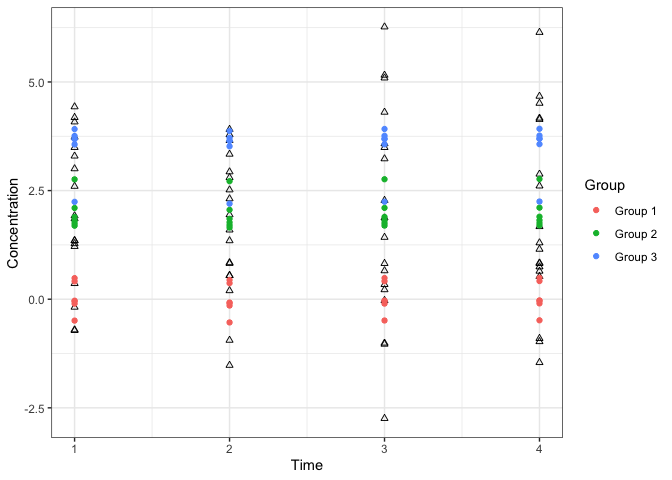
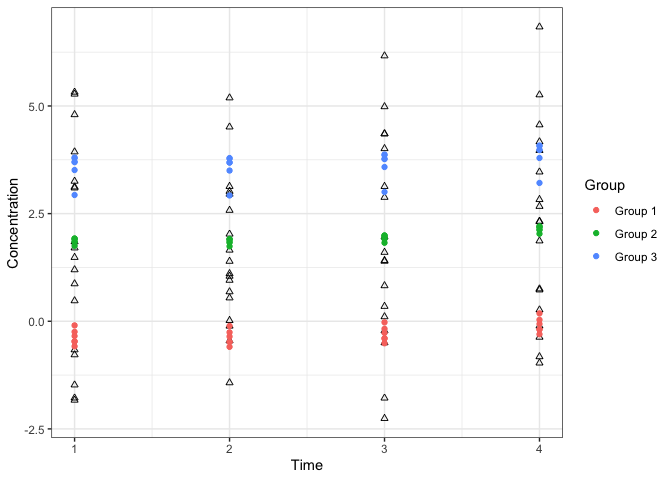
update readme

diff --git a/README.md b/README.md
@@ -85,37 +85,37 @@ print(exposure_mod_fit,
     ## post-warmup draws per chain=1000, total post-warmup draws=4000.
     ## 
     ##                  mean se_mean   sd    2.5%     25%     50%     75%   97.5%
-    ## sigmaG           1.84    0.01 0.46    1.12    1.50    1.77    2.12    2.91
-    ## sigmaI           0.63    0.01 0.24    0.12    0.49    0.64    0.79    1.09
-    ## sigmaW           1.20    0.00 0.13    0.99    1.11    1.19    1.28    1.48
-    ## sigmaTheta[1]    0.35    0.01 0.33    0.01    0.12    0.25    0.48    1.24
-    ## etaG[1]          0.03    0.01 0.37   -0.70   -0.21    0.03    0.27    0.79
-    ## etaG[2]          1.95    0.01 0.38    1.17    1.71    1.96    2.21    2.67
-    ## etaG[3]          3.38    0.01 0.38    2.60    3.14    3.39    3.64    4.10
-    ## theta[1]         0.04    0.00 0.29   -0.55   -0.09    0.01    0.15    0.70
-    ## theta[2]        -0.05    0.00 0.32   -0.80   -0.17   -0.01    0.09    0.63
-    ## theta[3]         0.05    0.00 0.23   -0.39   -0.07    0.02    0.15    0.57
-    ## sigma2I          0.46    0.01 0.31    0.01    0.24    0.40    0.62    1.19
-    ## sigma2W          1.46    0.01 0.31    0.98    1.24    1.42    1.65    2.18
-    ## sigma2G          3.60    0.04 1.89    1.25    2.25    3.13    4.49    8.48
-    ## lp__          -158.37    0.18 5.37 -170.17 -161.62 -157.95 -154.48 -149.23
+    ## sigmaG           1.83    0.01 0.45    1.13    1.50    1.78    2.10    2.85
+    ## sigmaI           0.39    0.01 0.23    0.03    0.22    0.38    0.55    0.86
+    ## sigmaW           1.34    0.00 0.12    1.12    1.25    1.33    1.42    1.60
+    ## sigmaTheta[1]    0.49    0.01 0.38    0.02    0.20    0.41    0.68    1.43
+    ## etaG[1]         -0.36    0.01 0.36   -1.08   -0.60   -0.36   -0.12    0.33
+    ## etaG[2]          1.85    0.01 0.36    1.10    1.61    1.86    2.09    2.53
+    ## etaG[3]          3.53    0.01 0.38    2.74    3.29    3.54    3.77    4.25
+    ## theta[1]         0.05    0.00 0.36   -0.65   -0.13    0.02    0.22    0.86
+    ## theta[2]         0.18    0.01 0.44   -0.60   -0.07    0.09    0.39    1.29
+    ## theta[3]         0.30    0.01 0.34   -0.21    0.04    0.23    0.50    1.09
+    ## sigma2I          0.21    0.01 0.21    0.00    0.05    0.15    0.30    0.75
+    ## sigma2W          1.81    0.01 0.34    1.25    1.57    1.78    2.01    2.55
+    ## sigma2G          3.56    0.04 1.82    1.27    2.25    3.15    4.40    8.10
+    ## lp__          -165.95    0.15 4.91 -176.34 -169.10 -165.61 -162.54 -156.84
     ##               n_eff Rhat
-    ## sigmaG         2275    1
-    ## sigmaI         1290    1
-    ## sigmaW         1948    1
-    ## sigmaTheta[1]  3424    1
-    ## etaG[1]        2536    1
-    ## etaG[2]        3689    1
-    ## etaG[3]        3654    1
-    ## theta[1]       4836    1
-    ## theta[2]       5016    1
-    ## theta[3]       4996    1
-    ## sigma2I        1730    1
-    ## sigma2W        1910    1
-    ## sigma2G        2367    1
-    ## lp__            858    1
+    ## sigmaG         2291 1.00
+    ## sigmaI         1444 1.00
+    ## sigmaW         3618 1.00
+    ## sigmaTheta[1]  2718 1.00
+    ## etaG[1]        3520 1.00
+    ## etaG[2]        3739 1.00
+    ## etaG[3]        3504 1.00
+    ## theta[1]       5409 1.00
+    ## theta[2]       3400 1.00
+    ## theta[3]       3392 1.00
+    ## sigma2I        1574 1.00
+    ## sigma2W        3629 1.00
+    ## sigma2G        2411 1.00
+    ## lp__           1102 1.01
     ## 
-    ## Samples were drawn using NUTS(diag_e) at Thu Jun 18 16:14:11 2020.
+    ## Samples were drawn using NUTS(diag_e) at Wed Aug 19 09:20:03 2020.
     ## For each parameter, n_eff is a crude measure of effective sample size,
     ## and Rhat is the potential scale reduction factor on split chains (at 
     ## convergence, Rhat=1).
@@ -131,7 +131,7 @@ summary(fitted_means)
 ```
 
     ##    Min. 1st Qu.  Median    Mean 3rd Qu.    Max. 
-    ## -0.5347  0.4131  1.8332  1.8291  3.5621  3.9226
+    ## -0.5940 -0.1244  1.9146  1.7749  3.5297  4.0821
 
 ``` r
 # Plots the fitted values (colored points) on top of original data (black outlines).
@@ -228,10 +228,10 @@ print(outcome_combo_mod_fit, pars=c("reI_raw", "reI","mui", "beta_raw"), include
 <!-- end list -->
 
 ``` r
-fitted_ERC <- get_fitted_ERC(standata=outcome_combo_data,
+fitted_ERC <- compute_ERC(standata=outcome_combo_data,
                              stanfit=outcome_combo_mod_fit,
                              exprange=c(5,200))
-plot_fitted_ERC(fitted_ERC) + scale_y_log10()
+plot_ERC(fitted_ERC) + scale_y_log10()
 ```
 
 ![](README_files/figure-gfm/unnamed-chunk-12-1.png)<!-- -->
